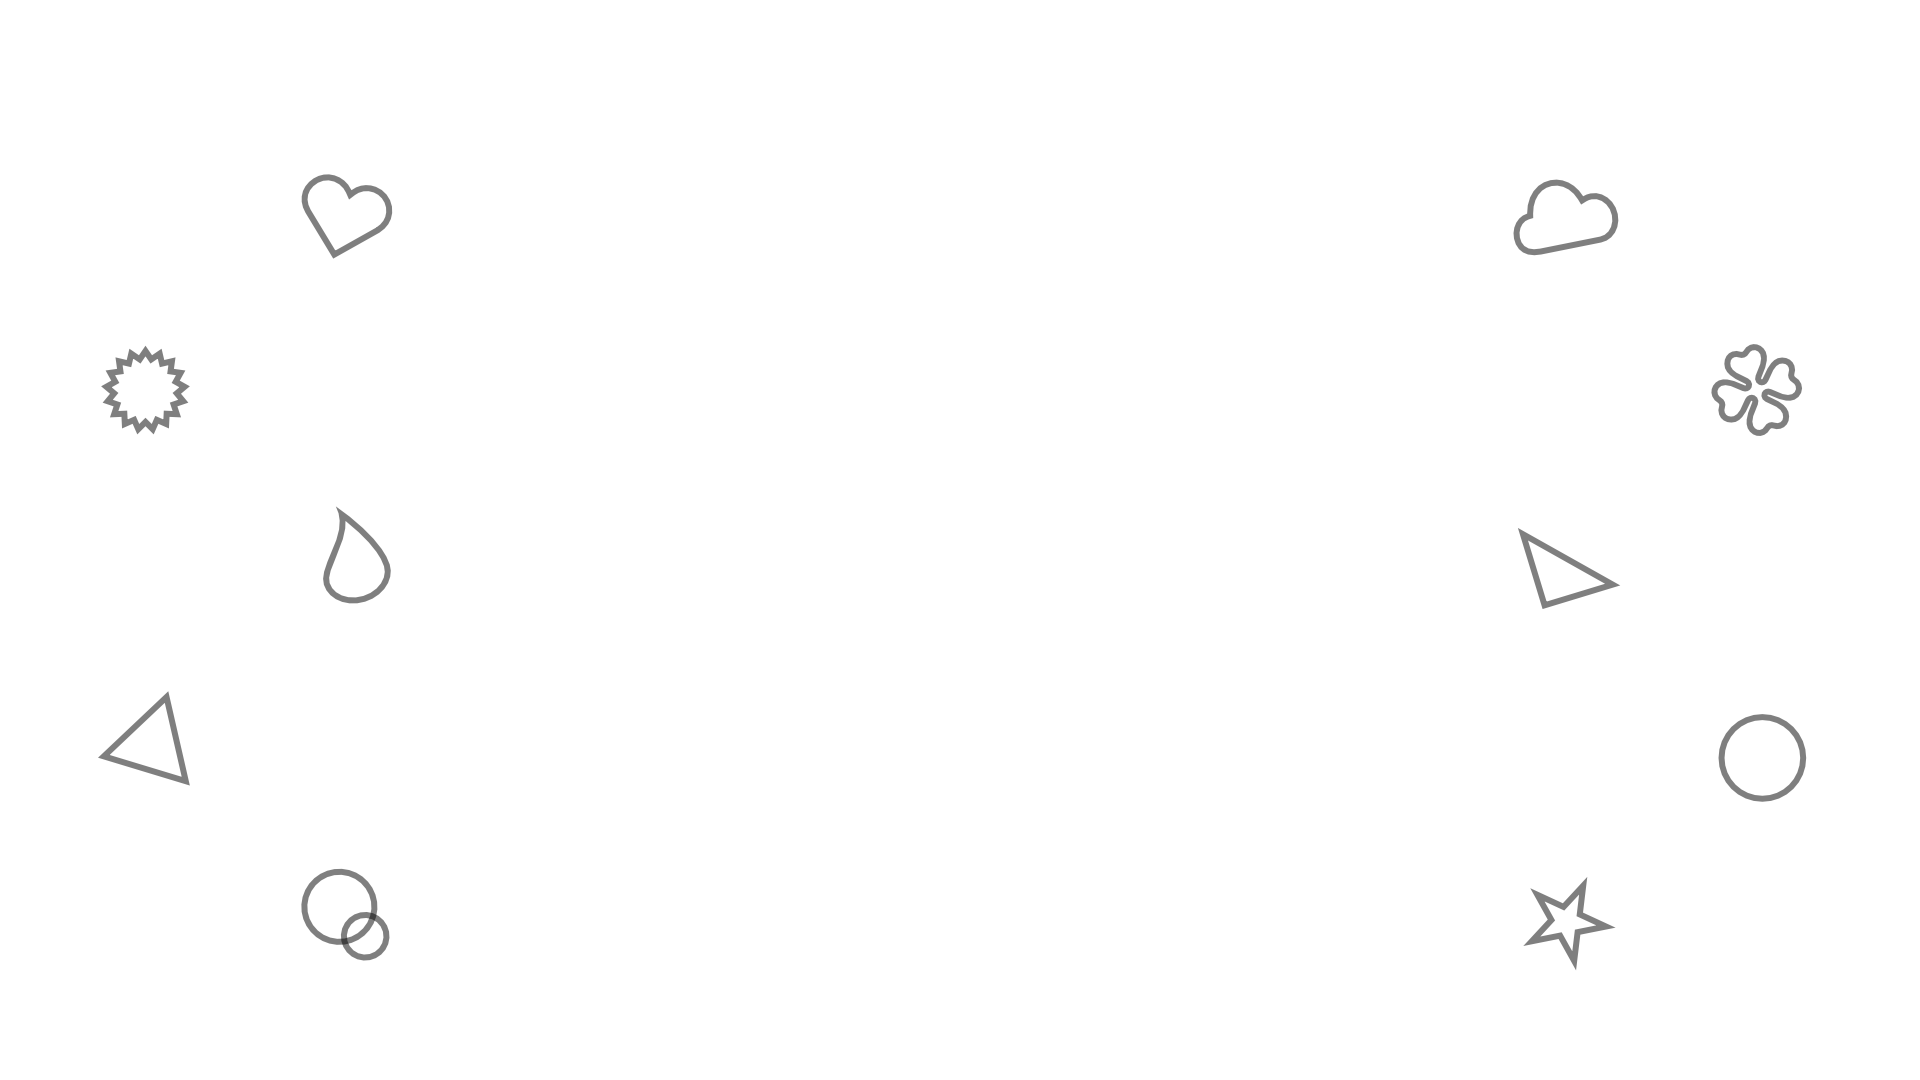
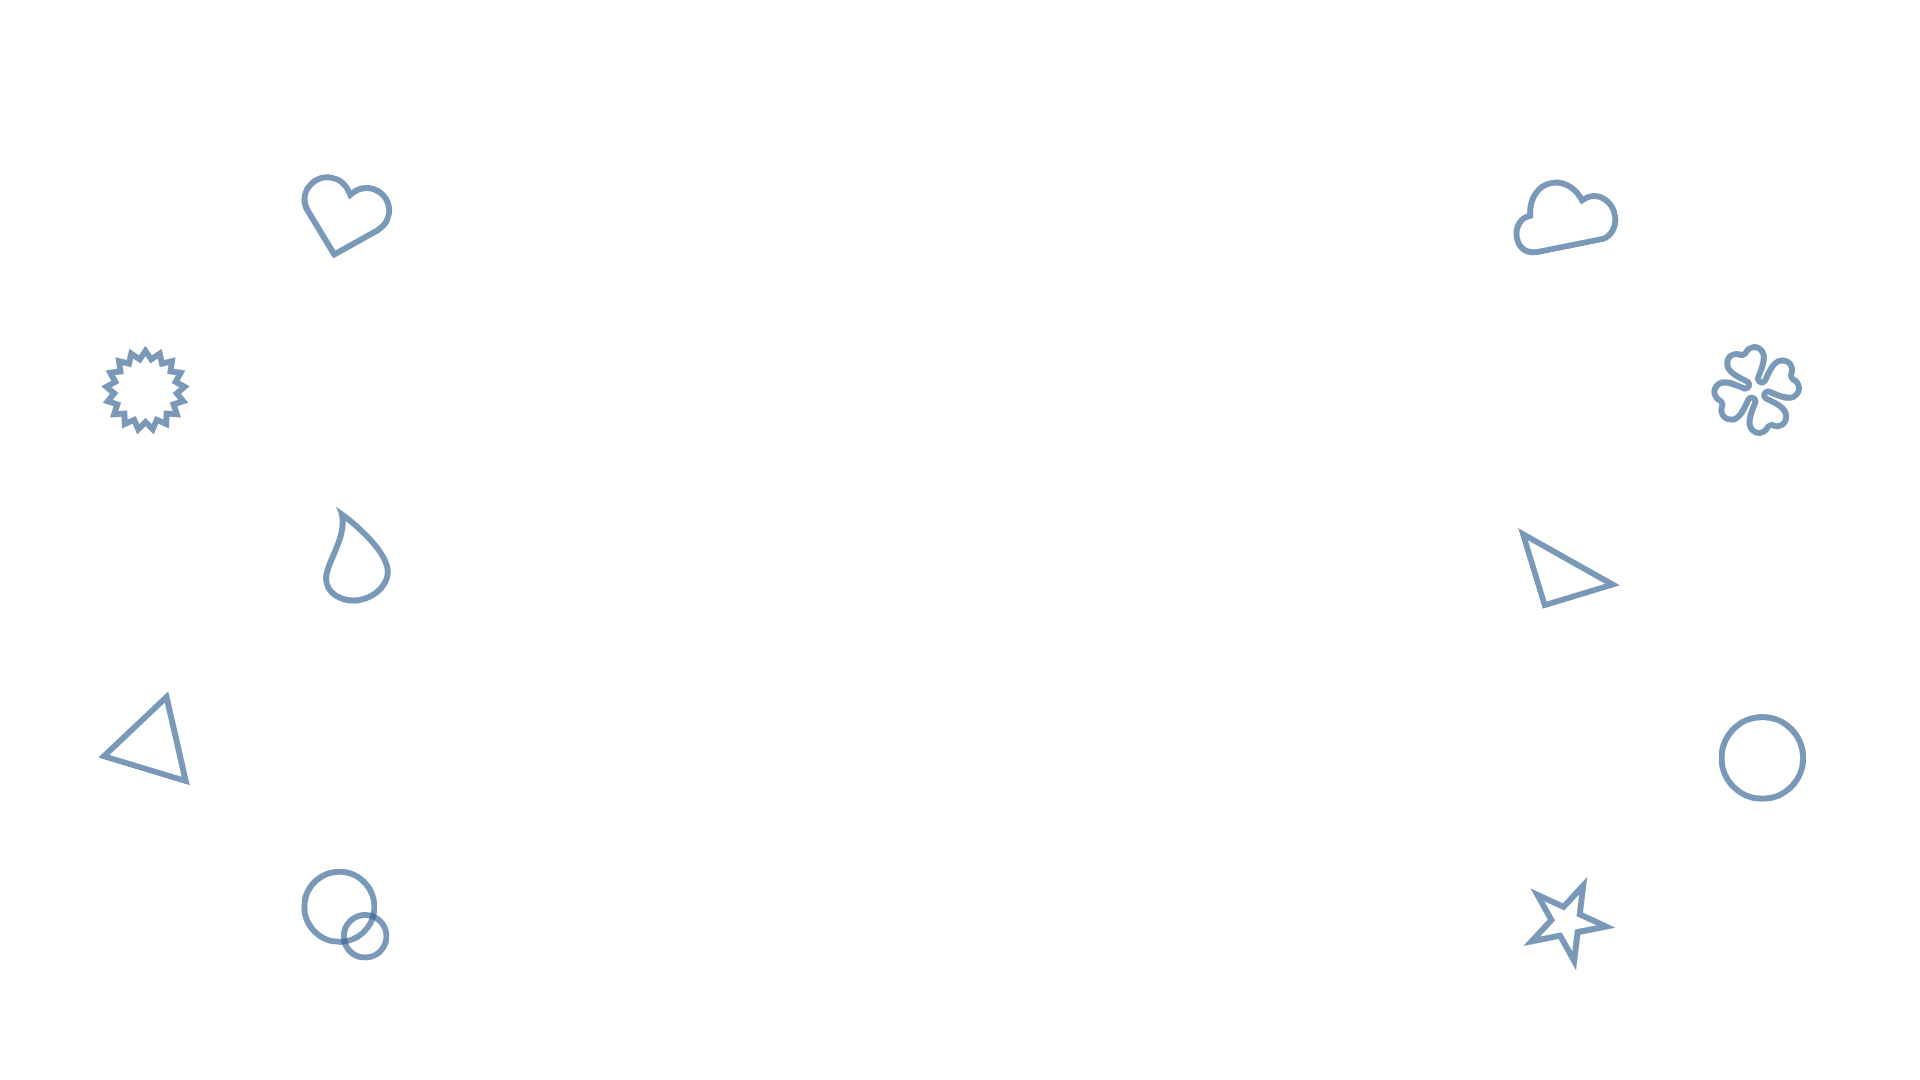
first general colors refactoring

diff --git a/frontend/src/app/components/navbar/navbar.html b/frontend/src/app/components/navbar/navbar.html
@@ -12,14 +12,22 @@
 
   <!-- Login action -->
   <div class="navbar-actions">
-    @if(isLoggedIn$ | async){ <a class="link" routerLink="/profile"><img src="icons/profile-icon.svg"></a> }
-    @else                   { <a class="link" routerLink="/login">LOGIN</a> }
+    @if(isLoggedIn$ | async){ <a class="link" routerLink="/profile">
+      <img class="white-icon" src="icons/profile/profile-light-icon.svg">
+      <img class="dark-icon" src="icons/profile/profile-dark-icon.svg">
+    </a> }
+    @else { <a class="link" routerLink="/login">LOGIN</a> }
   </div>
 
   <!-- Menu button for reduced view -->
   <button class="menu-button" (click)="toggleMenu()">
-    @if (isMenuOpen){ <img src="icons/menu-open-icon.svg" alt="openMenu"> }
-    @else           { <img src="/icons/menu-icon.svg" alt="closedMenu"> }
+    @if (isMenuOpen){
+      <img src="icons/menu/menu-open-icon.svg" alt="openMenu">
+    }
+    @else {
+      <img class="white-icon" src="/icons/menu/menu-light-icon.svg" alt="closedMenu">
+      <img class="dark-icon" src="/icons/menu/menu-dark-icon.svg" alt="closedMenu">
+    }
   </button>
 
   <!-- Side menu for reduced view -->
@@ -27,6 +35,7 @@
     @if(isLoggedIn$ | async){ <a class="link" routerLink="/draw" (click)="toggleMenu()">DRAW</a> }
     <a class="link" routerLink="/explore" (click)="toggleMenu()">EXPLORE</a>
     <a class="link" routerLink="/leaderboard" (click)="toggleMenu()">LEADERBOARD</a>
+    <p class="link" (click)="toggleTheme()">THEME</p>
     @if(isLoggedIn$ | async){ <a class="link" routerLink="/profile" (click)="toggleMenu()">PROFILE</a> }
     @else          { <a class="link" routerLink="/login" (click)="toggleMenu()">LOGIN</a> }
   </div>

diff --git a/frontend/src/app/views/signup/signup.css b/frontend/src/app/views/signup/signup.css
@@ -31,7 +31,7 @@
   text-align: center;
   font-size: 2.8rem;
   font-weight: 900;
-  color: #ff98a2;
+  color: var(--color-primary);
   margin: 1.5rem 0 2rem;
 }
 
@@ -43,21 +43,21 @@
 
 .input-group label {
   font-size: 1rem;
-  color: #af9cac;
+  color: var(--color-neutral);
 }
 
 .input-group input {
   width: 100%;
   height: 2.2rem;
   border-radius: 0.375rem;
-  border: 0.12rem solid #a17478;
-  background-color: #3c2f40;
+  border: 0.12rem solid var(--color-primary);
+  background-color: var(--color-static);
   color: var(--color-secondary);
   font-size: 1rem;
 }
 
 .input-group input:focus {
-  border-color: #fa8be2;
+  border-color: var(--color-contrast);
 }
 
 .sign-button {
@@ -80,14 +80,14 @@
 .sign-button:hover {
   cursor: pointer;
   background-color: var(--color-secondary);
-  box-shadow: 0 0 1.5rem var(--color-contrast);
+  box-shadow: 0 0 1rem var(--color-contrast);
 }
 
 .login {
   margin-top: 2rem;
   text-align: center;
   font-size:1rem;
-  color: #af9cac;
+  color: var(--color-neutral);
 }
 
 .login a {
@@ -98,4 +98,10 @@
 .login a:hover {
   cursor: pointer;
   color: var(--color-secondary);
+}
+
+/*********** LIGHT MODE ***********/
+:host-context(.light-theme) .form-container {
+  background-color: var(--color-static);
+  border-color: var(--color-static);
 }

diff --git a/frontend/src/app/components/footer/footer.css b/frontend/src/app/components/footer/footer.css
@@ -3,7 +3,7 @@
   display: flex;
   flex-direction: row;
   padding: 1.5rem 1.5rem 1.5rem 1rem;
-  background-color: #f47f8b;
+  background-color: var(--color-static);
   gap: 1rem;
 }
 
@@ -18,34 +18,33 @@
 .logo {
   font-size: 1.5rem;
   font-weight: 950;
-  color: var(--color-secondary);
-  text-shadow: 1px 1px 1px black;
+  color: var(--color-primary);
   margin: 0;
 }
 
 /********* Footer text *********/
 .text {
   font-size: 1rem;
-  font-weight: 600;
+  font-weight: 400;
   margin: 0;
+  color: var(--color-neutral);
 }
 
 .title {
   font-size: 1.3rem;
   font-weight: 750;
-  color: var(--color-secondary);
-  text-shadow: 1px 1px 1px #000000;
+  color: var(--color-primary);
   margin: 0;
 }
 
 .footer a {
-  font-weight: 750;
-  color: #000000;
+  font-weight: 600;
+  color: var(--color-neutral);
   cursor: pointer;
 }
 
 .footer a:hover {
-  color: #555555;
+  color: var(--color-base);
 }
 
 .list-link {

diff --git a/frontend/src/app/components/footer/footer.html b/frontend/src/app/components/footer/footer.html
@@ -9,9 +9,9 @@
       Stand together against generative AI. 
     </p>
     <div class="icons">
-      <a href="https://linktr.ee/gazen27" target="_blank"><img class="link-icon" src="icons/linktree-icon.svg"></a>
-      <a href="https://github.com/Gazen27" target="_blank"><img class="link-icon" src="icons/github-icon.svg"></a>
-      <a href="https://discord.com/invite/CERUbpQrpM" target="_blank"><img class="link-icon" src="icons/discord-icon.svg"></a>
+      <a href="https://linktr.ee/gazen27" target="_blank"><img class="link-icon" src="icons/footer/linktree-icon.svg"></a>
+      <a href="https://github.com/Gazen27" target="_blank"><img class="link-icon" src="icons/footer/github-icon.svg"></a>
+      <a href="https://discord.com/invite/CERUbpQrpM" target="_blank"><img class="link-icon" src="icons/footer/discord-icon.svg"></a>
     </div>
   </div>
 

diff --git a/frontend/src/styles.css b/frontend/src/styles.css
@@ -2,8 +2,11 @@
 :root {
   --color-primary: #ff98a2;
   --color-secondary: #ffffff;
-  --color-tertiary: #1f1f1f;
   --color-contrast: #000000;
+
+  --color-static: #1f1f1f;
+  --color-base: #ffffff;
+  --color-neutral: #aaaaaa;
 
   --background:
     linear-gradient(
@@ -21,10 +24,20 @@
 .light-theme {
   --color-primary: #336291;
   --color-secondary: #000000;
-  --color-tertiary: #1f1f1f;
   --color-contrast: #ffffff;
 
-  --background: #ffffff;
+  --color-static: #1f1f1f;
+  --color-base: #ffffff;
+  --color-neutral: #aaaaaa;
+
+  --background:
+    linear-gradient(
+      to bottom,
+      #bfd3e6,
+      #dce8f2,
+      #f4f8fb
+    );
+    
   --background-decoration: url('/background-decoration-light.webp');
 
 }

diff --git a/frontend/src/app/components/navbar/navbar.css b/frontend/src/app/components/navbar/navbar.css
@@ -47,6 +47,7 @@
   display: flex;
   justify-content: center;
   align-items: center;
+  margin: 0;
   font-size: 1rem;
   font-weight: 800;
   color: var(--color-secondary);
@@ -63,6 +64,22 @@
 .link img {
   width: 1.9rem;
   height: 1.9rem;
+}
+
+.dark-icon {
+  display: none;
+}
+
+.white-icon {
+  display: block;
+}
+
+:host-context(.light-theme) .dark-icon {
+  display: block;
+}
+
+:host-context(.light-theme) .white-icon {
+  display: none;
 }
 
 /********* Right menu *********/

diff --git a/frontend/src/app/views/signup/signup.html b/frontend/src/app/views/signup/signup.html
@@ -2,7 +2,6 @@
 
   <!-- Form Card -->
   <div class="form-container">
-
 	  <p class="title">Register</p>
 
     <!-- Entire form -->
